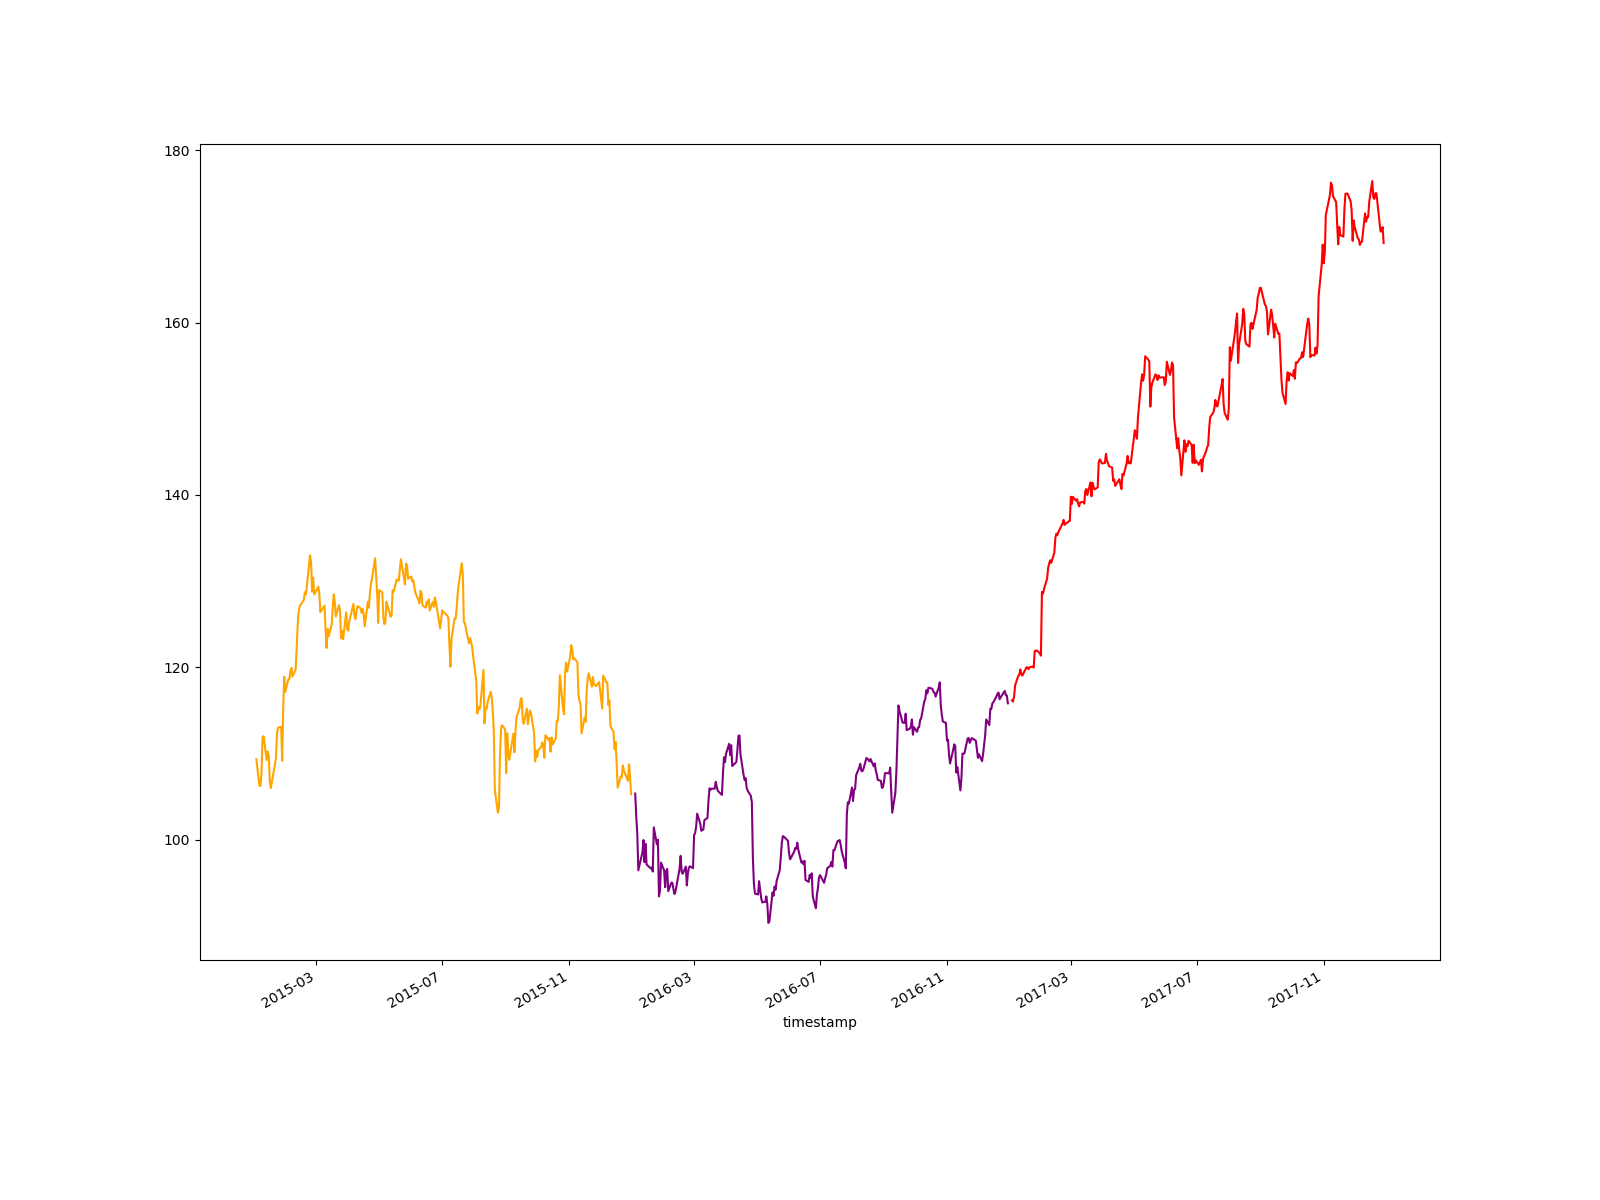
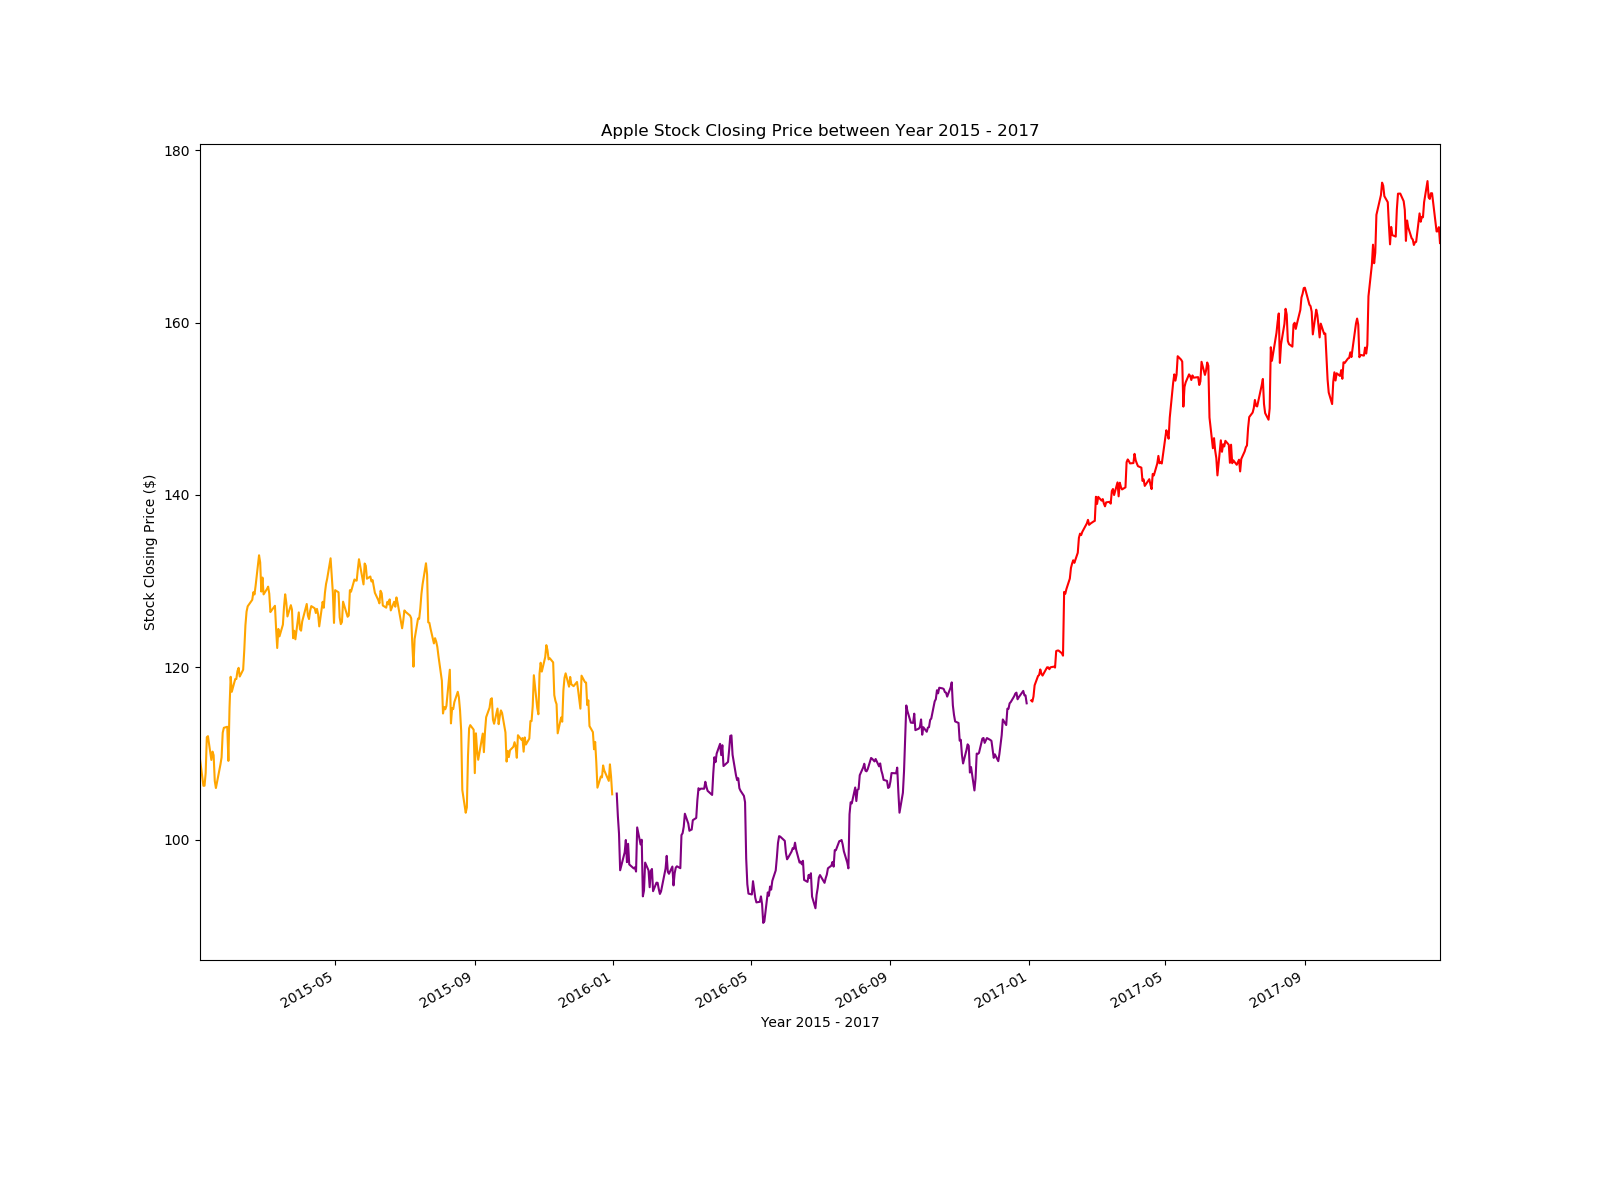
multi years changes

diff --git a/multi_year.py b/multi_year.py
@@ -22,6 +22,9 @@ stock_pd.set_index('timestamp',inplace=True)
 stock_pd.truncate(before=str('2017-01-01'), after=str('2017-12-31'))['close'].plot(figsize=(16, 12), color="red")
 stock_pd.truncate(before=str('2016-01-01'), after=str('2016-12-31'))['close'].plot(figsize=(16, 12), color="purple")
 stock_pd.truncate(before=str('2015-01-01'), after=str('2015-12-31'))['close'].plot(figsize=(16, 12), color="orange")
+plt.title("Apple Stock Closing Price between Year 2015 - 2017")
+plt.xlabel("Year 2015 - 2017")
+plt.ylabel("Stock Closing Price ($)")
 plt.savefig('2015-2017 close.png')
 plt.show()
 
